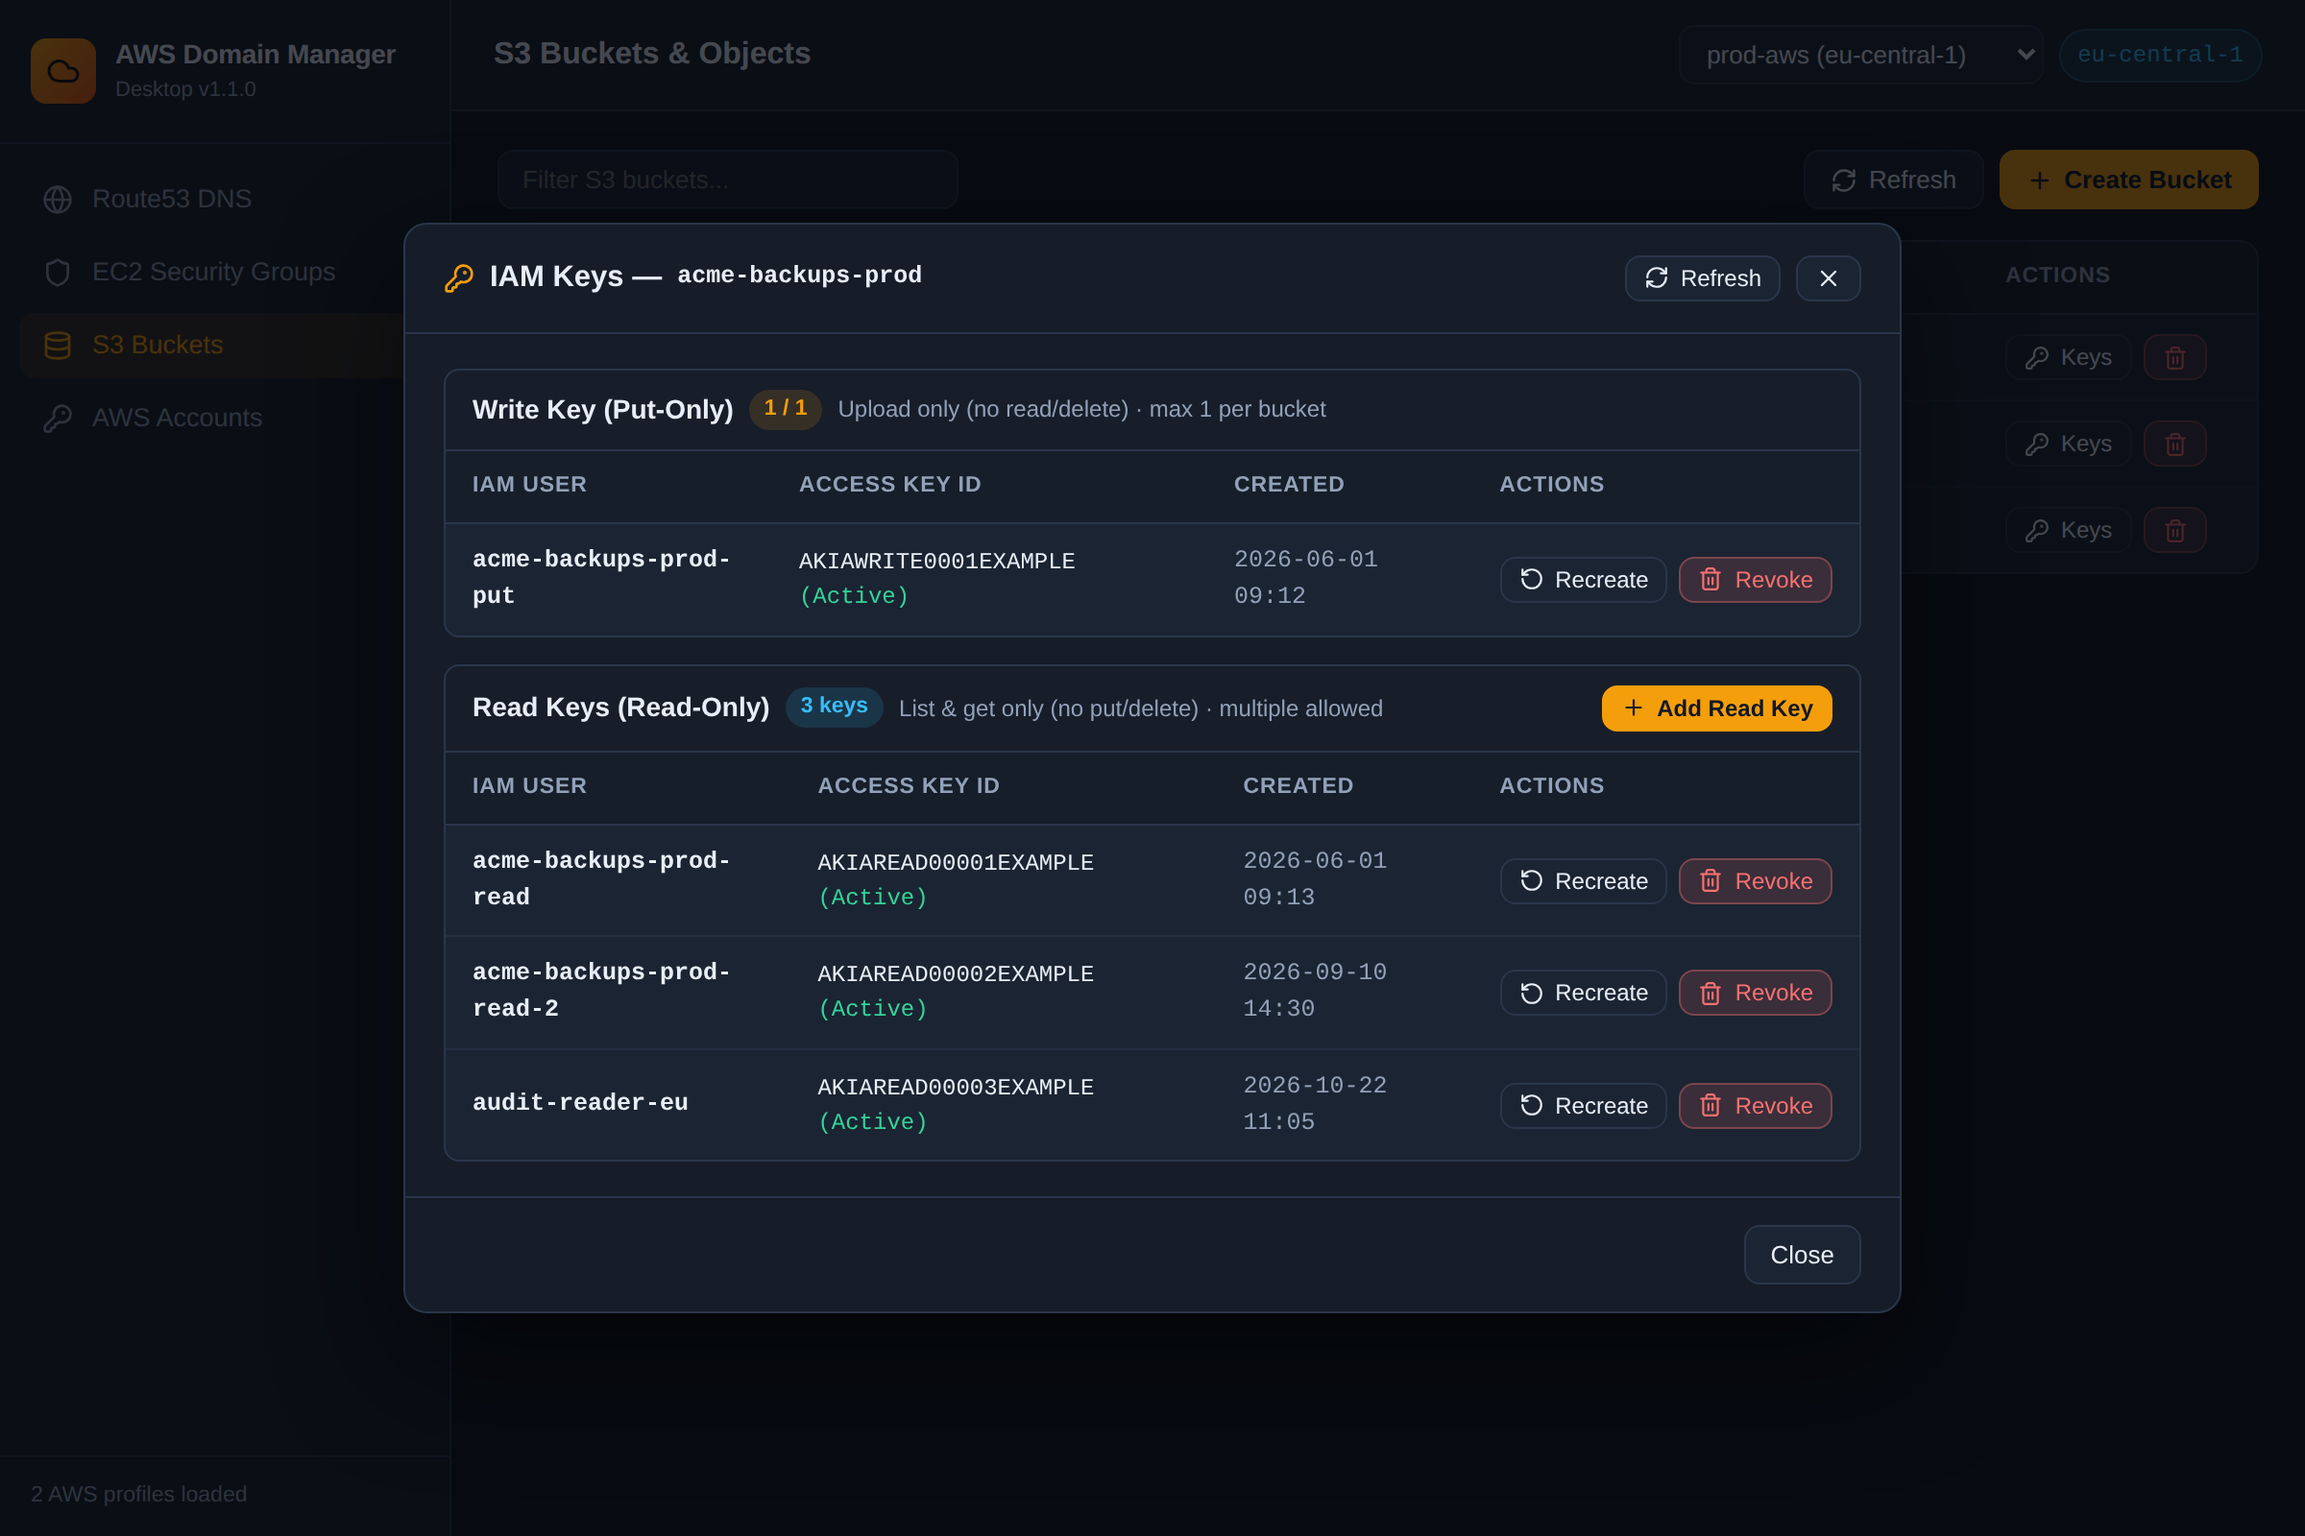
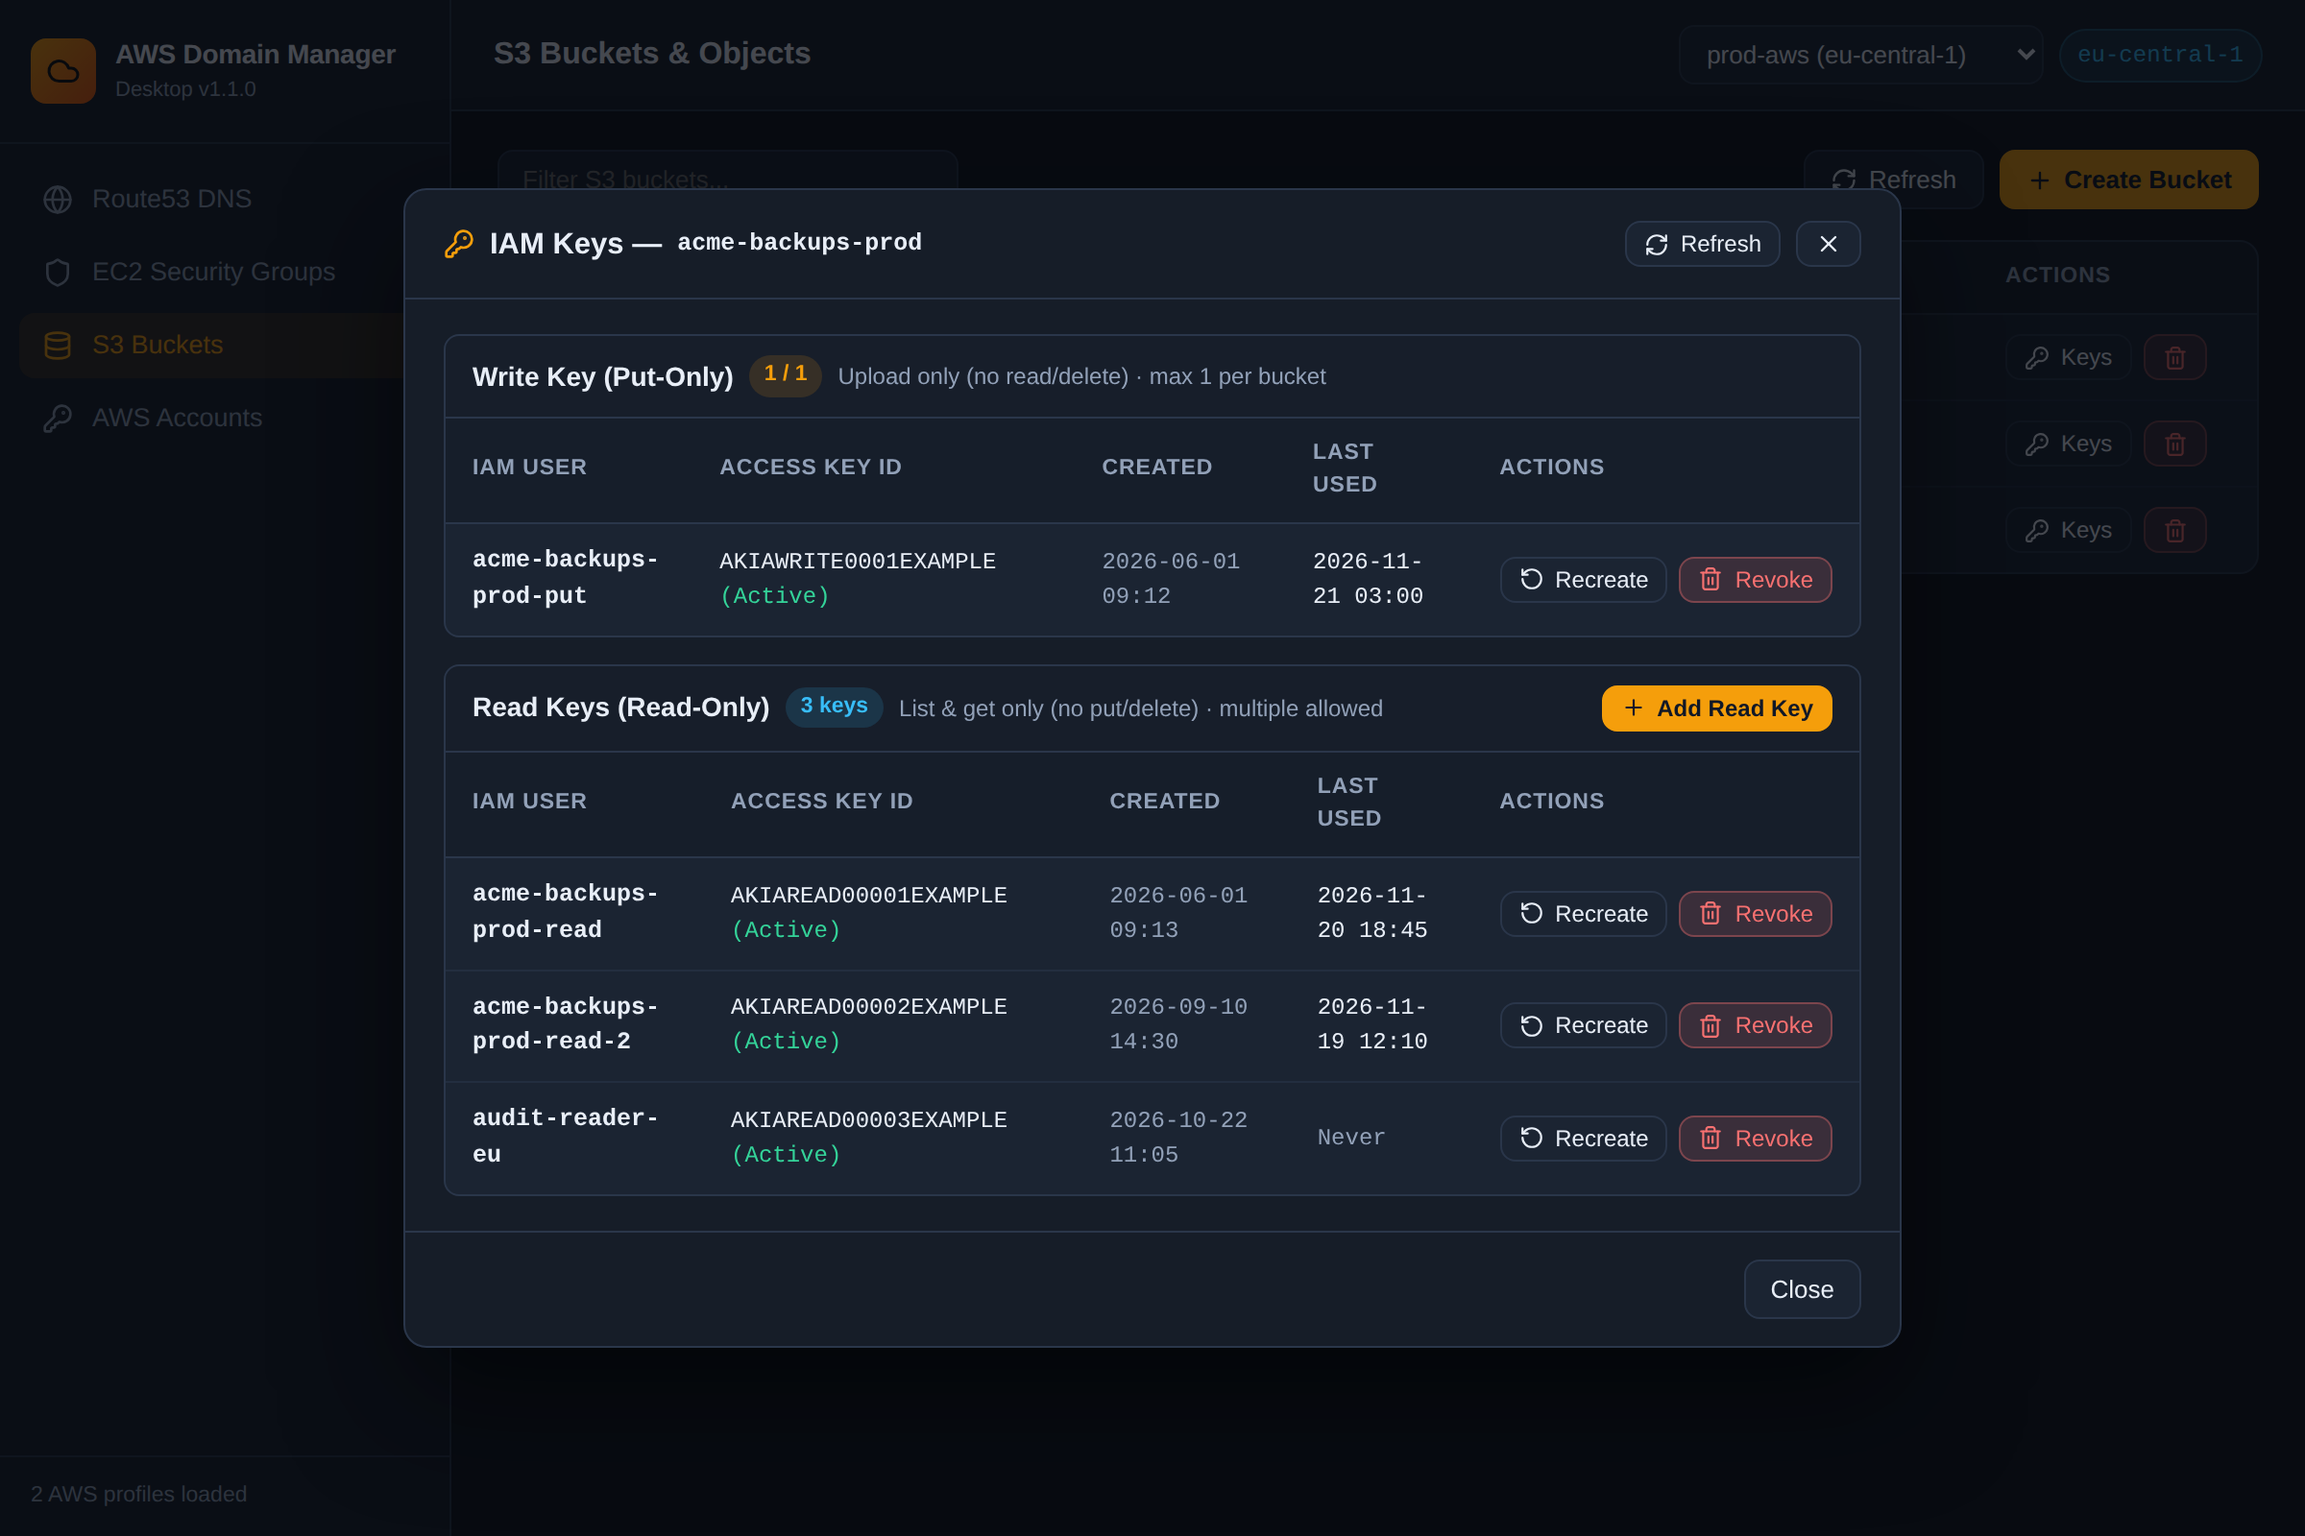
Show Created and Last Used dates for read-only and put-only IAM keys

diff --git a/desktop/src/components/BucketKeysModal.tsx b/desktop/src/components/BucketKeysModal.tsx
@@ -127,6 +127,36 @@ export const BucketKeysModal: React.FC<Props> = ({
     }
   };
 
+  const renderCreatedDates = (u: BucketIamUser) => {
+    if (u.accessKeys.length === 0) {
+      return formatDate(u.createdAt);
+    }
+    return u.accessKeys.map((k) => (
+      <div key={k.accessKeyId} className="mono" style={{ fontSize: 12 }}>
+        {formatDate(k.createDate || u.createdAt)}
+      </div>
+    ));
+  };
+
+  const renderLastUsedDates = (u: BucketIamUser) => {
+    if (u.accessKeys.length === 0) {
+      return <span style={{ color: 'var(--text-muted)' }}>-</span>;
+    }
+    return u.accessKeys.map((k) => {
+      const raw = k.lastUsedDate || u.lastUsedAt || 'Never';
+      const isNever = raw === 'Never' || raw === '-';
+      return (
+        <div
+          key={k.accessKeyId}
+          className="mono"
+          style={{ fontSize: 12, color: isNever ? 'var(--text-muted)' : 'var(--text)' }}
+        >
+          {isNever ? raw : formatDate(raw)}
+        </div>
+      );
+    });
+  };
+
   const renderKeyIds = (u: BucketIamUser) => {
     if (u.accessKeys.length === 0) {
       return <span style={{ color: 'var(--text-muted)' }}>No active keys</span>;
@@ -220,6 +250,7 @@ export const BucketKeysModal: React.FC<Props> = ({
                         <th>IAM User</th>
                         <th>Access Key ID</th>
                         <th>Created</th>
+                        <th>Last Used</th>
                         <th style={{ width: 190 }}>Actions</th>
                       </tr>
                     </thead>
@@ -231,8 +262,9 @@ export const BucketKeysModal: React.FC<Props> = ({
                           </td>
                           <td>{renderKeyIds(u)}</td>
                           <td className="mono" style={{ color: 'var(--text-muted)' }}>
-                            {formatDate(u.createdAt)}
+                            {renderCreatedDates(u)}
                           </td>
+                          <td>{renderLastUsedDates(u)}</td>
                           <td>
                             <div style={{ display: 'flex', gap: 6 }}>
                               <button
@@ -322,6 +354,7 @@ export const BucketKeysModal: React.FC<Props> = ({
                         <th>IAM User</th>
                         <th>Access Key ID</th>
                         <th>Created</th>
+                        <th>Last Used</th>
                         <th style={{ width: 190 }}>Actions</th>
                       </tr>
                     </thead>
@@ -333,8 +366,9 @@ export const BucketKeysModal: React.FC<Props> = ({
                           </td>
                           <td>{renderKeyIds(u)}</td>
                           <td className="mono" style={{ color: 'var(--text-muted)' }}>
-                            {formatDate(u.createdAt)}
+                            {renderCreatedDates(u)}
                           </td>
+                          <td>{renderLastUsedDates(u)}</td>
                           <td>
                             <div style={{ display: 'flex', gap: 6 }}>
                               <button

diff --git a/src/components/screens/BucketKeysScreen.jsx b/src/components/screens/BucketKeysScreen.jsx
@@ -147,10 +147,11 @@ const BucketKeysScreen = ({
       ) : (
         <Box flexDirection="column">
           <Box>
-            <Text bold>{'  '}{'Role'.padEnd(10)}</Text>
-            <Text bold>{'IAM User'.padEnd(32)}</Text>
-            <Text bold>{'Access Key ID'.padEnd(26)}</Text>
-            <Text bold>Created (UTC)</Text>
+            <Text bold>{'  '}{'Role'.padEnd(9)}</Text>
+            <Text bold>{'IAM User'.padEnd(28)}</Text>
+            <Text bold>{'Access Key ID'.padEnd(23)}</Text>
+            <Text bold>{'Created (UTC)'.padEnd(19)}</Text>
+            <Text bold>Last Used (UTC)</Text>
           </Box>
           {bucketKeys.map((u, idx) => {
             const isSelected = idx === selectedKeyIndex;
@@ -158,23 +159,28 @@ const BucketKeysScreen = ({
             const roleColor = isSelected ? 'cyan' : u.role === 'put-only' ? 'yellow' : 'blue';
             const rowColor = isSelected ? 'cyan' : undefined;
             const userNameDisplay =
-              u.userName.length > 30 ? `${u.userName.slice(0, 27)}...` : u.userName;
+              u.userName.length > 26 ? `${u.userName.slice(0, 23)}...` : u.userName;
             const keySummary =
               u.accessKeys.length === 0
                 ? '(no active key)'
                 : u.accessKeys.map((k) => k.accessKeyId).join(', ');
             const keyDisplay =
-              keySummary.length > 24 ? `${keySummary.slice(0, 21)}...` : keySummary;
+              keySummary.length > 21 ? `${keySummary.slice(0, 18)}...` : keySummary;
+            const createdDisplay = u.accessKeys[0]?.createDate || u.createdAt || '-';
+            const lastUsedDisplay = u.accessKeys[0]?.lastUsedDate || u.lastUsedAt || 'Never';
 
             return (
               <Box key={u.userName}>
                 <Text color={roleColor} bold={isSelected}>
                   {isSelected ? '▸ ' : '  '}
-                  {roleTag.padEnd(10)}
+                  {roleTag.padEnd(9)}
                 </Text>
-                <Text color={rowColor}>{userNameDisplay.padEnd(32)}</Text>
-                <Text color={rowColor}>{keyDisplay.padEnd(26)}</Text>
-                <Text color={rowColor}>{u.createdAt}</Text>
+                <Text color={rowColor}>{userNameDisplay.padEnd(28)}</Text>
+                <Text color={rowColor}>{keyDisplay.padEnd(23)}</Text>
+                <Text color={rowColor}>{createdDisplay.padEnd(19)}</Text>
+                <Text color={rowColor} dimColor={!isSelected && lastUsedDisplay === 'Never'}>
+                  {lastUsedDisplay}
+                </Text>
               </Box>
             );
           })}

diff --git a/src/services/iamService.js b/src/services/iamService.js
@@ -10,6 +10,7 @@ import {
   CreateAccessKeyCommand,
   ListAccessKeysCommand,
   DeleteAccessKeyCommand,
+  GetAccessKeyLastUsedCommand,
 } from '@aws-sdk/client-iam';
 import { fromIni } from '@aws-sdk/credential-provider-ini';
 
@@ -288,13 +289,32 @@ const inspectCandidateUser = async (client, bucketName, userName, createdAtHint 
   if (!role) return null;
 
   const keysResp = await client.send(new ListAccessKeysCommand({ UserName: userName }));
-  const accessKeys = (keysResp.AccessKeyMetadata || []).map((k) => ({
-    accessKeyId: k.AccessKeyId || '',
-    status: k.Status || 'Unknown',
-    createDate: k.CreateDate
-      ? new Date(k.CreateDate).toISOString().slice(0, 16).replace('T', ' ')
-      : '-',
-  }));
+  const accessKeys = [];
+  for (const k of keysResp.AccessKeyMetadata || []) {
+    const accessKeyId = k.AccessKeyId || '';
+    let lastUsedDate = 'Never';
+    if (accessKeyId) {
+      try {
+        const usedResp = await client.send(
+          new GetAccessKeyLastUsedCommand({ AccessKeyId: accessKeyId })
+        );
+        const rawLastUsed = usedResp.AccessKeyLastUsed?.LastUsedDate;
+        lastUsedDate = rawLastUsed
+          ? new Date(rawLastUsed).toISOString().slice(0, 16).replace('T', ' ')
+          : 'Never';
+      } catch {
+        lastUsedDate = '-';
+      }
+    }
+    accessKeys.push({
+      accessKeyId,
+      status: k.Status || 'Unknown',
+      createDate: k.CreateDate
+        ? new Date(k.CreateDate).toISOString().slice(0, 16).replace('T', ' ')
+        : '-',
+      lastUsedDate,
+    });
+  }
 
   return {
     bucketName,
@@ -302,9 +322,10 @@ const inspectCandidateUser = async (client, bucketName, userName, createdAtHint 
     role,
     roleLabel: ROLE_LABELS[role] || role,
     createdAt:
-      createdAtHint ||
       accessKeys[0]?.createDate ||
+      createdAtHint ||
       '-',
+    lastUsedAt: accessKeys[0]?.lastUsedDate || 'Never',
     accessKeys,
   };
 };

diff --git a/tests/tui.spec.jsx b/tests/tui.spec.jsx
@@ -82,6 +82,18 @@ const BASE_TUI_PROPS = {
   bucketKeys: DUMMY_BUCKET_IAM_USERS.map((u) => ({
     ...u,
     createdAt: u.createdAt.slice(0, 16).replace('T', ' '),
+    lastUsedAt:
+      u.lastUsedAt && u.lastUsedAt !== 'Never'
+        ? u.lastUsedAt.slice(0, 16).replace('T', ' ')
+        : 'Never',
+    accessKeys: u.accessKeys.map((k) => ({
+      ...k,
+      createDate: k.createDate.slice(0, 16).replace('T', ' '),
+      lastUsedDate:
+        k.lastUsedDate && k.lastUsedDate !== 'Never'
+          ? k.lastUsedDate.slice(0, 16).replace('T', ' ')
+          : 'Never',
+    })),
   })),
   selectedKeyIndex: 0,
   addKeyRole: null,

diff --git a/desktop/src/types.ts b/desktop/src/types.ts
@@ -82,6 +82,7 @@ export interface IamAccessKeyMeta {
   accessKeyId: string;
   status: string;
   createDate: string;
+  lastUsedDate?: string;
 }
 
 export interface BucketIamUser {
@@ -90,6 +91,7 @@ export interface BucketIamUser {
   role: 'put-only' | 'read-only';
   roleLabel: string;
   createdAt: string;
+  lastUsedAt?: string;
   accessKeys: IamAccessKeyMeta[];
 }
 

diff --git a/desktop/src/components/IamPermissionsGuide.tsx b/desktop/src/components/IamPermissionsGuide.tsx
@@ -97,6 +97,7 @@ export const IamPermissionsGuide: React.FC<Props> = ({ defaultExpanded = false }
           'iam:CreateAccessKey',
           'iam:ListAccessKeys',
           'iam:DeleteAccessKey',
+          'iam:GetAccessKeyLastUsed',
         ],
         Resource: 'arn:aws:iam::*:user/s3-bucket-users/*',
       });

diff --git a/desktop/src-tauri/src/iam.rs b/desktop/src-tauri/src/iam.rs
@@ -25,6 +25,7 @@ pub struct IamAccessKeyMetaDto {
     pub access_key_id: String,
     pub status: String,
     pub create_date: String,
+    pub last_used_date: String,
 }
 
 #[derive(Debug, Clone, Serialize)]
@@ -35,6 +36,7 @@ pub struct BucketIamUserDto {
     pub role: String,
     pub role_label: String,
     pub created_at: String,
+    pub last_used_at: String,
     pub access_keys: Vec<IamAccessKeyMetaDto>,
 }
 
@@ -369,25 +371,54 @@ async fn inspect_candidate_user(
             )
         })?;
 
-    let access_keys: Vec<IamAccessKeyMetaDto> = keys_resp
-        .access_key_metadata()
-        .iter()
-        .map(|k| IamAccessKeyMetaDto {
-            access_key_id: k.access_key_id().unwrap_or_default().to_string(),
-            status: k
-                .status()
-                .map(|s| s.as_str().to_string())
-                .unwrap_or_else(|| "Unknown".to_string()),
-            create_date: k
-                .create_date()
-                .map(|d| d.to_string())
-                .unwrap_or_else(|| "-".to_string()),
-        })
-        .collect();
+    let mut access_keys: Vec<IamAccessKeyMetaDto> = Vec::new();
+    for k in keys_resp.access_key_metadata() {
+        let key_id = k.access_key_id().unwrap_or_default().to_string();
+        let status = k
+            .status()
+            .map(|s| s.as_str().to_string())
+            .unwrap_or_else(|| "Unknown".to_string());
+        let create_date = k
+            .create_date()
+            .map(|d| d.to_string())
+            .unwrap_or_else(|| "-".to_string());
 
-    let created_at = created_at_hint
-        .or_else(|| access_keys.first().map(|k| k.create_date.clone()))
+        let last_used_date = if !key_id.is_empty() {
+            match client
+                .get_access_key_last_used()
+                .access_key_id(&key_id)
+                .send()
+                .await
+            {
+                Ok(used_resp) => used_resp
+                    .access_key_last_used()
+                    .and_then(|u| u.last_used_date())
+                    .map(|d| d.to_string())
+                    .unwrap_or_else(|| "Never".to_string()),
+                Err(_) => "-".to_string(),
+            }
+        } else {
+            "-".to_string()
+        };
+
+        access_keys.push(IamAccessKeyMetaDto {
+            access_key_id: key_id,
+            status,
+            create_date,
+            last_used_date,
+        });
+    }
+
+    let created_at = access_keys
+        .first()
+        .map(|k| k.create_date.clone())
+        .or(created_at_hint)
         .unwrap_or_else(|| "-".to_string());
+
+    let last_used_at = access_keys
+        .first()
+        .map(|k| k.last_used_date.clone())
+        .unwrap_or_else(|| "Never".to_string());
 
     Ok(Some(BucketIamUserDto {
         bucket_name: bucket_name.to_string(),
@@ -395,6 +426,7 @@ async fn inspect_candidate_user(
         role: role.to_string(),
         role_label: role_label(role).to_string(),
         created_at,
+        last_used_at,
         access_keys,
     }))
 }

diff --git a/README.md b/README.md
@@ -189,7 +189,8 @@ Create a dedicated IAM user for this tool instead of using root or `Administrato
         "iam:DeleteUserPolicy",
         "iam:CreateAccessKey",
         "iam:ListAccessKeys",
-        "iam:DeleteAccessKey"
+        "iam:DeleteAccessKey",
+        "iam:GetAccessKeyLastUsed"
       ],
       "Resource": "arn:aws:iam::*:user/s3-bucket-users/*"
     }
